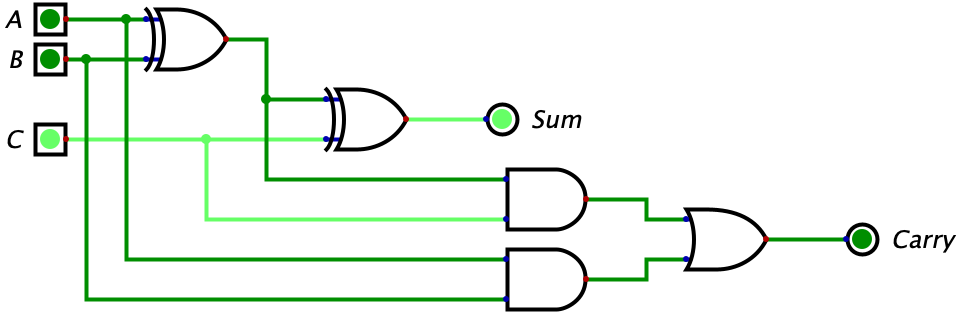
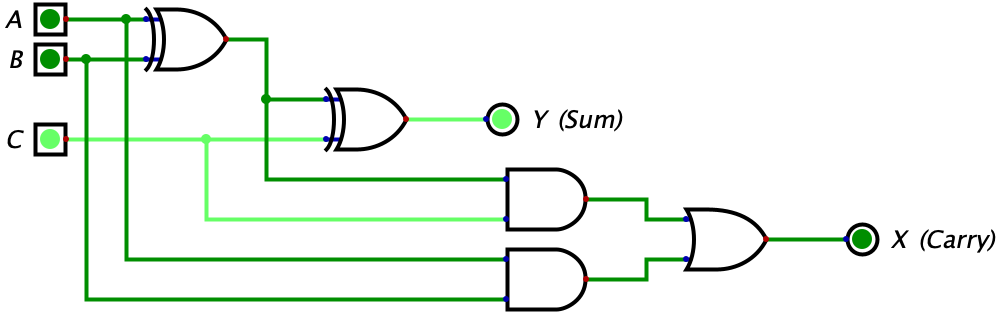
updated

diff --git a/_parts/part07.md b/_parts/part07.md
@@ -29,7 +29,7 @@ In the earliest chapters we were introduced to base-2 and learned how to add two
 
 You already know that computers can add incredibly large numbers together, but for the sake of us getting started, we will restrict our circuit to adding two 1-bit values (recall that a bit is a binary digit), namely A and B. Let's take an example below as a first contender of a circuit that takes 1-bit values A and B as input and outputs their sum ($$A+B$$) as Y:
 
-<img src="https://milen-patel.github.io/cpu_tutorial/assets/part7/OR_Gate_1.png" style="display: block; margin-left: auto; margin-right: auto;" />
+<img src="https://milen-patel.github.io/cpu_tutorial/assets/part7/images/OR_Gate_1.png" style="display: block; margin-left: auto; margin-right: auto;" />
 
 Above we have a circuit representing the equation $$A+B=Y$$ (in other words, $$0_{2}+0_{2}=0_{2}$$). Essentially, this circuit adds two numbers together (in this case, a 0 and a 0) and outputs a number (which again, is 0). Congrats, you just build your first circuit! In this example, what we are trying to demonstrate is that the OR gate can be used to add two numbers together and is a simple addition circuit (which was also briefly mentioned in Chapter 6).
 
@@ -37,42 +37,42 @@ Above we have a circuit representing the equation $$A+B=Y$$ (in other words, $$0
 
 Let's look at a slightly different example:
 
-<img src="https://milen-patel.github.io/cpu_tutorial/assets/part7/OR_Gate_2.png" style="display: block; margin-left: auto; margin-right: auto;" />
+<img src="https://milen-patel.github.io/cpu_tutorial/assets/part7/images/OR_Gate_2.png" style="display: block; margin-left: auto; margin-right: auto;" />
 
 Here, we are adding the bit 0 (number 0) with the bit 1 (number 1) which gives us the bit 1 (number 1). In other terms, this equation can be written as $$0_{2}+1_{2}=1_{2}$$. Makes sense right? I know I'm definetly boring you, so let's look a slightly harder example:
 
-<img src="https://milen-patel.github.io/cpu_tutorial/assets/part7/OR_Gate_3.png" style="display: block; margin-left: auto; margin-right: auto;" />
+<img src="https://milen-patel.github.io/cpu_tutorial/assets/part7/images/OR_Gate_3.png" style="display: block; margin-left: auto; margin-right: auto;" />
 
 Here, we are adding the bit 1 (number 1) with the bit 1 (number 1) which gives us the bit 1 (number 1). If you realized there's a mistake here, you're right. The number 1 plus the number 1 should be returning the number 2 (written as **10** in binary - notice how we need two bits). You might be thinking that there is no possible way we can represent the number two with just one OR gate (since it only outputs one bit). This is where things get exciting.
 
 Remember when I was talking about legos earlier, this is where we use them. Just like how we can connect different legos with each other to build more complicated things, we can connect different logic gates to build more complicated circuits. Here is where we introduce the half adder:
 
-<img src="https://milen-patel.github.io/cpu_tutorial/assets/part7/Half_Adder_1.png" style="display: block; margin-left: auto; margin-right: auto;" />
+<img src="https://milen-patel.github.io/cpu_tutorial/assets/part7/images/Half_Adder_1.png" style="display: block; margin-left: auto; margin-right: auto;" />
 
-The issue with using just an OR gate to represent the addition of two bits is that sometimes the bits can add up to the number 2 which we saw in the example in the paragraph above (meaning we need to somehow represent two bits in the output of a circuit since the number 2 is represented by two binary digits). We can represent the equation as $$A_{2}+B_{2}=YX_{2}$$. This is where a half adder circuit is useful because we can now represent the sum and carry-out digits (which was talked about in Chapter 3). In the circuit above, the X acts as the least significant bit (the sum bit) and the Y acts as the most significant bit (the carry-out bit). Now, your question might be how did we know to use the XOR gate to calculate X and the AND gate to calculate Y? Take a look at this truth table below which represents the addition of two 1-bit binary values:
+The issue with using just an OR gate to represent the addition of two bits is that sometimes the bits can add up to the number 2 which we saw in the example in the paragraph above (meaning we need to somehow represent two bits in the output of a circuit since the number 2 is represented by two binary digits). We can represent the equation as $$A_{2}+B_{2}=XY_{2}$$. This is where a half adder circuit is useful because we can now represent the sum and carry-out digits (which was talked about in Chapter 3). In the circuit above, the Y acts as the least significant bit (the sum bit) and the X acts as the most significant bit (the carry bit). Now, your question might be how did we know to use the XOR gate to calculate Y and the AND gate to calculate X? Take a look at this truth table below which represents the addition of two 1-bit binary values:
 
-| A | B | X (Sum) | Y (Carry Out)
+| A | B | Y (Sum) | X (Carry)
 |:---:|:---:|:---:|:---:|
 | 0 | 0 |  0 | 0
 | 0 | 1 |  1 | 0
 | 1 | 0 |  1 | 0
 | 1 | 1 |  0 | 1
 
-Before we go any further, we should note that these calculations are the same as the ones in Chapter 3. First, looking at the Sum Column (X Output), we can see that it looks pretty familar to one of the truth tables in Chapter 6. If you were thinking an XOR gate, then you're right! And, looking at the Carry Out Column (Y Output), we can see that the output looks similar to an AND gate. Now we can see why the half adder uses a XOR gate and an AND gate instead of using a normal OR gate.
+Before we go any further, we should note that these calculations are the same as the ones in Chapter 3. First, looking at the Sum Column (Y Output), we can see that it looks pretty familar to one of the truth tables in Chapter 6. If you were thinking an XOR gate, then you're right! And, looking at the Carry Column (X Output), we can see that the output looks similar to an AND gate. Now we can see why the half adder uses a XOR gate and an AND gate instead of using a normal OR gate.
 
-If we combine both of these bits together (in the form of YX with the X bit being the least significant bit and the Y bit being the most significant bit), we can have an output now that represents the equation $$1_{2}+1_{2}=2_{10}$$ because the number 2 can be represented as **10** in binary. Here is an example of the circuit below:
+If we combine both of these bits together (in the form of XY with the Y bit being the least significant bit and the X bit being the most significant bit), we can have an output now that represents the equation $$1_{2}+1_{2}=2_{10}$$ because the number 2 can be represented as **10** in binary. Here is an example of the circuit below:
 
-<img src="https://milen-patel.github.io/cpu_tutorial/assets/part7/Half_Adder_2.png" style="display: block; margin-left: auto; margin-right: auto;" />
+<img src="https://milen-patel.github.io/cpu_tutorial/assets/part7/images/Half_Adder_2.png" style="display: block; margin-left: auto; margin-right: auto;" />
 
-Here is another example of using a half adder for the equation $$1_{2}+0_{2}=1_{10}$$:
+Here is another example of using a half adder for the equation $$1_{2}+0_{2}=1_{01}$$:
 
-<img src="https://milen-patel.github.io/cpu_tutorial/assets/part7/Half_Adder_3.png" style="display: block; margin-left: auto; margin-right: auto;" />
+<img src="https://milen-patel.github.io/cpu_tutorial/assets/part7/images/Half_Adder_3.png" style="display: block; margin-left: auto; margin-right: auto;" />
 
-In this example, we can see that the output is **01** (or the number 1). Again, the X is used as the least significant bit and the Y is used as the most significant bit.
+In this example, we can see that the output is **01** (or the number 1). Again, the Y is used as the least significant bit and the X is used as the most significant bit.
 
-Remember how we were talking about lego bricks earlier? Well, you might hate me, but we are going to add another brick on top of our current circuit. Let's say we want to add another input to our circuit and call it the carry-in bit (this will make a lot more sense, I promise). So now we want to add the A, B, and C (carry-in) bits together to output a sum bit (X) and a carry-out bit (Y), so the equation we are now trying to build our circuit for can be represented by $$A_{2}+B_{2}+C{2}=YX{2}$$. Let's take a look at the truth table and build the full adder circuit (again, this truth table is a representation of adding 3 1-bit values and their ouputs):
+Remember how we were talking about lego bricks earlier? Well, you might hate me, but we are going to add another brick on top of our current circuit. Let's say we want to add another input to our circuit and call it the carry-in bit (this will make a lot more sense, I promise). So now we want to add the A, B, and C (carry-in) bits together to output a sum bit (Y) and a carry-out bit (X), so the equation we are now trying to build our circuit for can be represented by $$A_{2}+B_{2}+C{2}=XY{2}$$. Let's take a look at the truth table and build the full adder circuit (again, this truth table is a representation of adding 3 1-bit values and their ouputs):
 
-| A | B | C | X (Sum) | Y (Carry Out)
+| A | B | C | Y (Sum) | X (Carry Out)
 |:---:|:---:|:---:|:---:|:---:|
 | 0 | 0 | 0 | 0 | 0
 | 0 | 0 | 1 | 1 | 0
@@ -83,7 +83,7 @@ Remember how we were talking about lego bricks earlier? Well, you might hate me,
 | 1 | 1 | 0 | 0 | 1
 | 1 | 1 | 1 | 1 | 1
 
-*Aside: If the above truth table is still confusing, think about it this way. Again, the equation we are trying to represent with the truth table and circuit is $$A_{2}+B_{2}+C{2}=YX{2}$$. If we add any row of values together, such as the last one where all the inputs are equal to the binary bit 1, then an easy trick we can do to find the output is convert all the inputs to numbers (which in this case are all equal to 1), add them (the result being 3), and then convert them back to binary (which gives us **11**).*
+*Aside: If the above truth table is still confusing, think about it this way. Again, the equation we are trying to represent with the truth table and circuit is $$A_{2}+B_{2}+C{2}=XY{2}$$. If we add any row of values together, such as the last one where all the inputs are equal to the binary bit 1, then an easy trick we can do to find the output is convert all the inputs to numbers (which in this case are all equal to 1), add them (the result being 3), and then convert them back to binary (which gives us **11**).*
 
 Next, we are going to use the SOP trick we learned in Chapter 6 to construct and simplify an expression for the truth table above. If you want to skip this part, feel free. I only included this part if you wanted to go over another SOP example (as long as you understand that you can take the ouput of a truth table, convert it to a boolean expression, and then use that expression to build a circuit, you understand the basis of how to build a logical circuit) Let's create an equation for the Sum bit:
 
@@ -133,19 +133,19 @@ Now, let's look at how to find the equation for the carry over bit:
 
 Now we have both of our equations. The equation for the Sum bit is **$$A \oplus B \oplus C$$** and the equation for the carry over bit is **$$C(A \oplus B) + AB$$**. We can now build our circuit which is below:
 
-<img src="https://milen-patel.github.io/cpu_tutorial/assets/part7/Full_Adder_1.png" style="display: block; margin-left: auto; margin-right: auto;" />
+<img src="https://milen-patel.github.io/cpu_tutorial/assets/part7/images/Full_Adder_1.png" style="display: block; margin-left: auto; margin-right: auto;" />
 
 Let's trace through the inputs in our truth table and look at it's respective circuit:
 
-| A | B | C | X (Sum) | Y (Carry Out) | Picture
+| A | B | C | Y (Sum) | X (Carry Out) | Picture
 |:---:|:---:|:---:|:---:|:---:|:---:|
-| 0 | 0 | 0 | 0 | 0 | <img src="https://milen-patel.github.io/cpu_tutorial/assets/part7/Full_Adder_1.png" style="display: block; margin-left: auto; margin-right: auto;" />
-| 0 | 0 | 1 | 1 | 0 | <img src="https://milen-patel.github.io/cpu_tutorial/assets/part7/Full_Adder_2.png" style="display: block; margin-left: auto; margin-right: auto;" />
-| 0 | 1 | 0 | 1 | 0 | <img src="https://milen-patel.github.io/cpu_tutorial/assets/part7/Full_Adder_3.png" style="display: block; margin-left: auto; margin-right: auto;" />
-| 0 | 1 | 1 | 0 | 1 | <img src="https://milen-patel.github.io/cpu_tutorial/assets/part7/Full_Adder_4.png" style="display: block; margin-left: auto; margin-right: auto;" />
-| 1 | 0 | 0 | 1 | 0 | <img src="https://milen-patel.github.io/cpu_tutorial/assets/part7/Full_Adder_5.png" style="display: block; margin-left: auto; margin-right: auto;" />
-| 1 | 0 | 1 | 0 | 1 | <img src="https://milen-patel.github.io/cpu_tutorial/assets/part7/Full_Adder_6.png" style="display: block; margin-left: auto; margin-right: auto;" />
-| 1 | 1 | 0 | 0 | 1 | <img src="https://milen-patel.github.io/cpu_tutorial/assets/part7/Full_Adder_7.png" style="display: block; margin-left: auto; margin-right: auto;" />
-| 1 | 1 | 1 | 1 | 1 | <img src="https://milen-patel.github.io/cpu_tutorial/assets/part7/Full_Adder_8.png" style="display: block; margin-left: auto; margin-right: auto;" />
+| 0 | 0 | 0 | 0 | 0 | <img src="https://milen-patel.github.io/cpu_tutorial/assets/part7/images/Full_Adder_1.png" style="display: block; margin-left: auto; margin-right: auto;" />
+| 0 | 0 | 1 | 1 | 0 | <img src="https://milen-patel.github.io/cpu_tutorial/assets/part7/images/Full_Adder_2.png" style="display: block; margin-left: auto; margin-right: auto;" />
+| 0 | 1 | 0 | 1 | 0 | <img src="https://milen-patel.github.io/cpu_tutorial/assets/part7/images/Full_Adder_3.png" style="display: block; margin-left: auto; margin-right: auto;" />
+| 0 | 1 | 1 | 0 | 1 | <img src="https://milen-patel.github.io/cpu_tutorial/assets/part7/images/Full_Adder_4.png" style="display: block; margin-left: auto; margin-right: auto;" />
+| 1 | 0 | 0 | 1 | 0 | <img src="https://milen-patel.github.io/cpu_tutorial/assets/part7/images/Full_Adder_5.png" style="display: block; margin-left: auto; margin-right: auto;" />
+| 1 | 0 | 1 | 0 | 1 | <img src="https://milen-patel.github.io/cpu_tutorial/assets/part7/images/Full_Adder_6.png" style="display: block; margin-left: auto; margin-right: auto;" />
+| 1 | 1 | 0 | 0 | 1 | <img src="https://milen-patel.github.io/cpu_tutorial/assets/part7/images/Full_Adder_7.png" style="display: block; margin-left: auto; margin-right: auto;" />
+| 1 | 1 | 1 | 1 | 1 | <img src="https://milen-patel.github.io/cpu_tutorial/assets/part7/images/Full_Adder_8.png" style="display: block; margin-left: auto; margin-right: auto;" />
 
 Cool right? Now, you might be thinking how can we further build on this concept. In Chapter 8, we are going to introduce the idea of ripple Ripple Carry Adders which will allow us to combine multiple Full Adders together to do multi-bit addition and subtraction (and, you'll see why the carry-out bit was important to learn about)!
